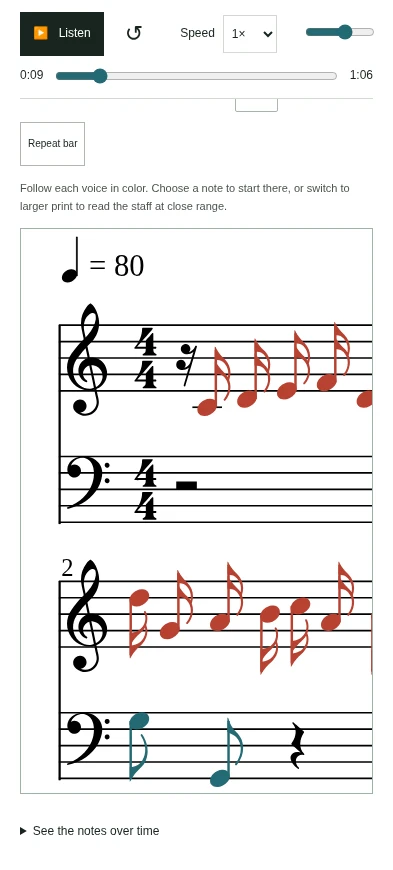
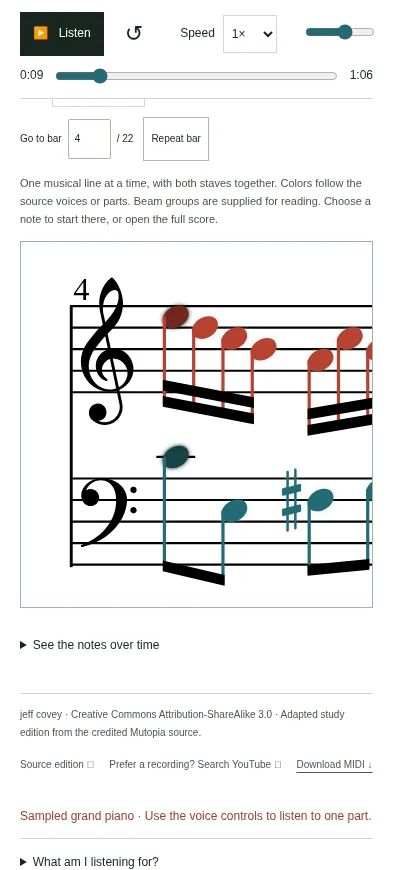
Refresh the listening-room screenshots and reading guide

Changed region(s): [[0.0305, 0.1552, 0.9466, 1.0], [0.0305, 0.7138, 0.0611, 0.7448]]

diff --git a/README.md b/README.md
@@ -93,15 +93,16 @@ recorded separately; structural tests do not certify audible fidelity.
 
 ## Current browser view
 
-![European composer atlas and a complete source-derived Bach score](docs/screenshots/authored-score-desktop.webp)
+![Current-line score with both staves and connected rhythmic beams](docs/screenshots/practice-desktop.webp)
 
-[Phone popup using the same score adapter](docs/screenshots/personal-popup-mobile.webp).
-Captured in Chromium CI on November 12, 2026, in the personal-site integration;
-the header's return link belongs to that host. This capture predates a text-only
-correction of the intro count from 45 legacy movements to 50 complete listening
-selections. All 50 authored scores rendered with full source-note alignment in
-that run. Viewport emulation and audio lifecycle tests do not certify physical
-devices, screen-reader use or concert fidelity.
+[Phone score at larger print](docs/screenshots/practice-phone.webp).
+These November 22, 2026 captures show the public personal-site integration.
+The score, source colours, bar controls and transport use this repository’s
+implementation. The host supplies its return link and shared reading shelf.
+All 50 authored scores passed source-note alignment in the integrated CI run.
+Desktop and phone flows passed against the published files. Phone checks use
+browser emulation. Physical devices, screen readers and concert fidelity were
+outside that verification.
 
 The listening desk offers a sampled grand piano and synthesized period keyboards. Playback follows the authored score with a bar indicator and optional larger print. Shape short notes by adjusting their release. The attacks remain aligned with the notation. [Piano sources and license](assets/instruments/piano/provenance.json).
 
